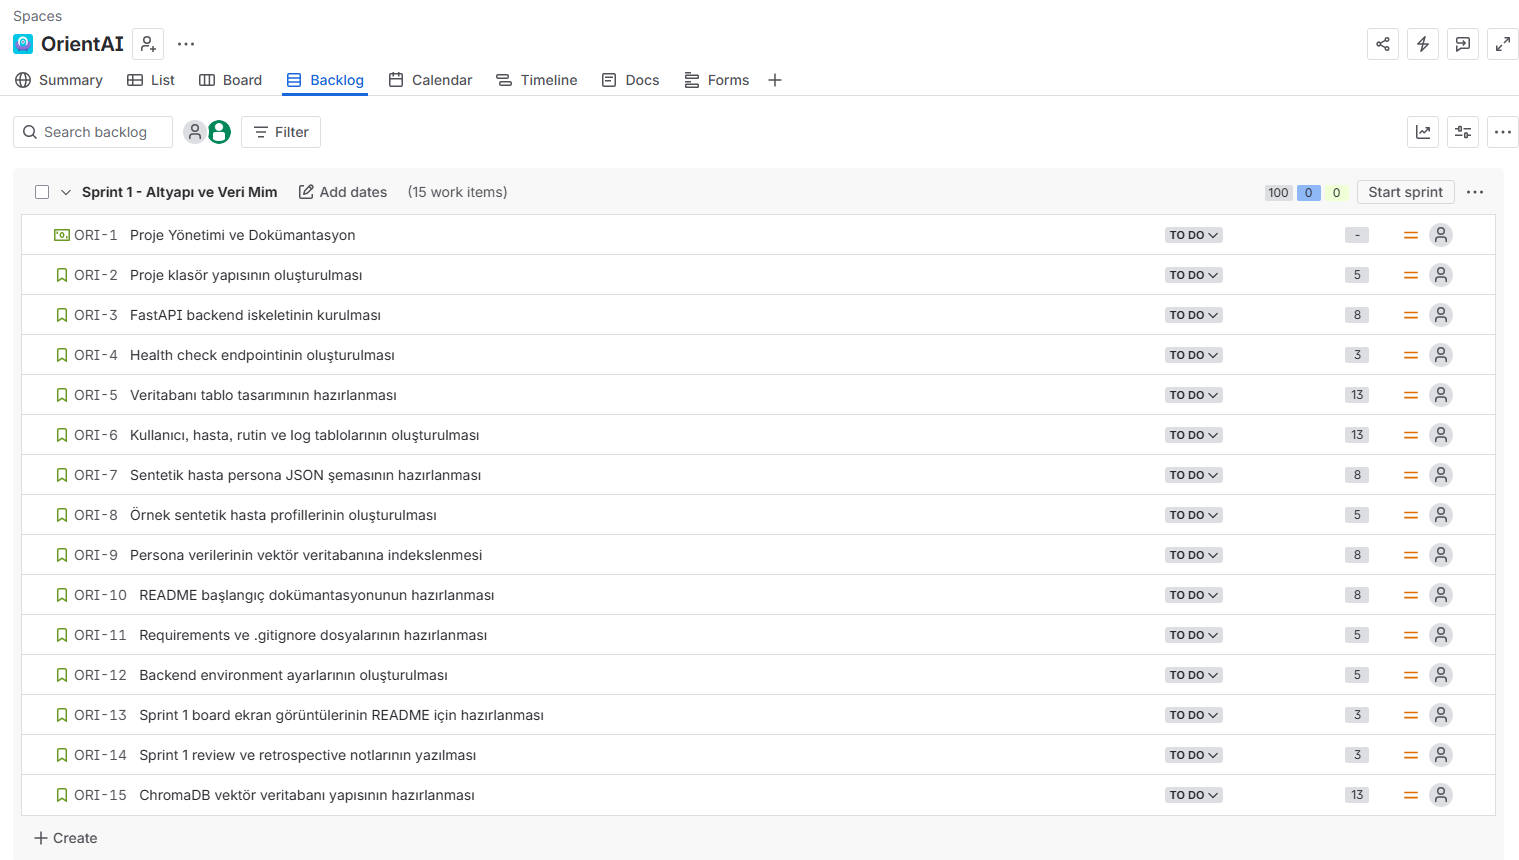
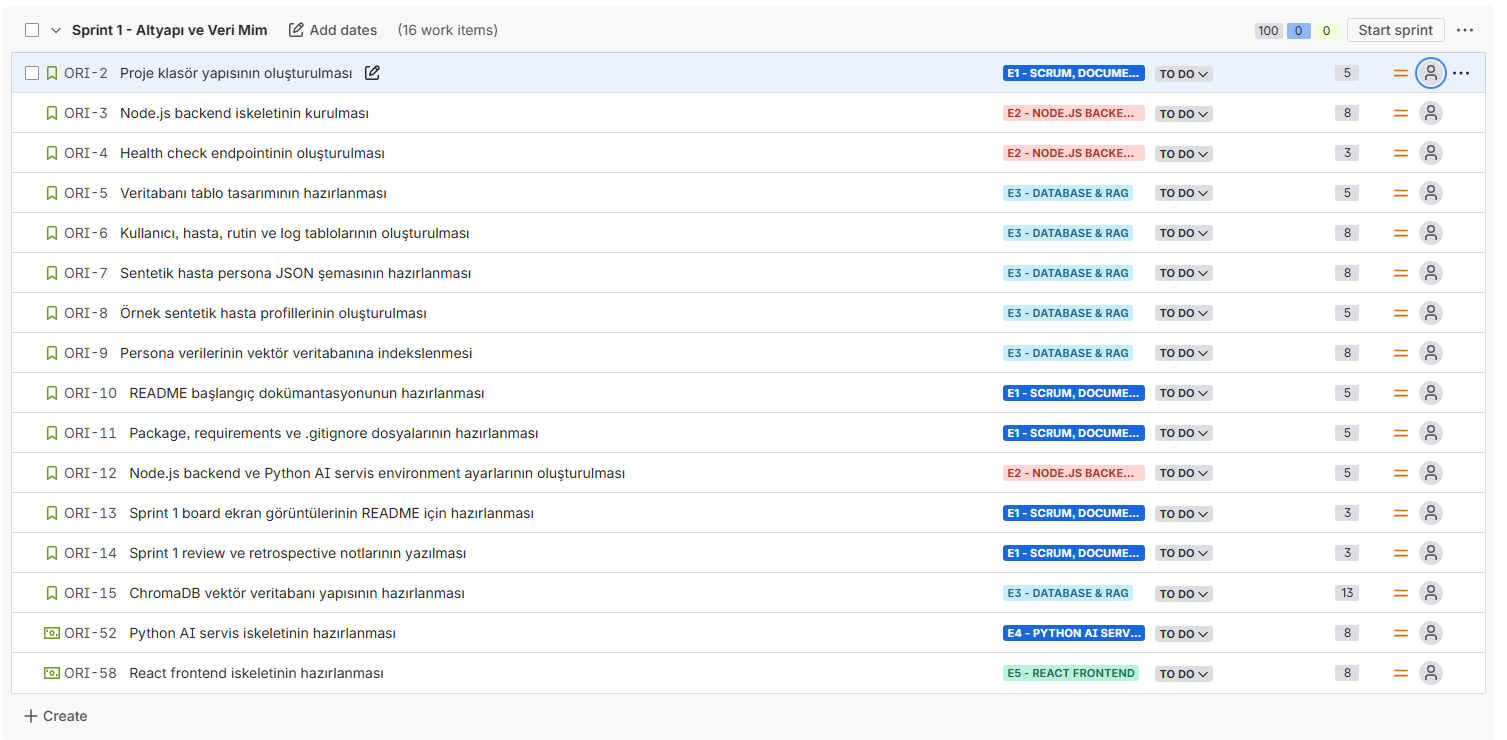
Add files via upload

diff --git a/README.md b/README.md
@@ -12,9 +12,9 @@
 
 <div align="center">
 
-![Python](https://img.shields.io/badge/Python-3.10+-blue?style=for-the-badge&logo=python)
-![FastAPI](https://img.shields.io/badge/FastAPI-Backend-009688?style=for-the-badge&logo=fastapi)
-![Streamlit](https://img.shields.io/badge/Streamlit-Frontend-FF4B4B?style=for-the-badge&logo=streamlit)
+![React](https://img.shields.io/badge/React-Frontend-61DAFB?style=for-the-badge&logo=react&logoColor=black)
+![Node.js](https://img.shields.io/badge/Node.js-Backend-339933?style=for-the-badge&logo=node.js&logoColor=white)
+![Python](https://img.shields.io/badge/Python-AI%20Services-3776AB?style=for-the-badge&logo=python&logoColor=white)
 ![ChromaDB](https://img.shields.io/badge/ChromaDB-RAG-purple?style=for-the-badge)
 ![Whisper](https://img.shields.io/badge/Whisper-STT-black?style=for-the-badge)
 ![Jira](https://img.shields.io/badge/Jira-Scrum-0052CC?style=for-the-badge&logo=jira)
@@ -98,30 +98,29 @@ The assistant can:
 ## 🧱 System Architecture
 
 ```text
-Patient Voice / Text / Image Input
-              |
-              v
-        FastAPI Backend
-              |
-   --------------------------------
-   |              |               |
- STT Service   Vision Service   RAG Service
- Whisper       LLaVA / API      ChromaDB
-   |              |               |
-   --------------------------------
-              |
-              v
-          LLM Response
-              |
-        ---------------
-        |             |
-      TTS       Interaction Logs
-        |             |
-        v             v
- Patient Output  Caregiver Dashboard
+React Frontend
+     |
+     v
+Node.js Backend API
+     |
+     v
+Python AI Services
+     |
+     |------------------|------------------|------------------|
+     v                  v                  v                  v
+ Whisper STT        TTS Service       Vision Service       RAG Service
+ Audio -> Text      Text -> Audio     Image Analysis       ChromaDB
+     |                  |                  |                  |
+     |------------------|------------------|------------------|
+                            |
+                            v
+                   Personalized AI Response
+                            |
+          --------------------------------------
+          |                                    |
+          v                                    v
+   Patient Interaction UI             Caregiver Dashboard
 ```
-
-> A detailed architecture diagram will be added as the project evolves.
 
 ---
 
@@ -129,8 +128,9 @@ Patient Voice / Text / Image Input
 
 | Layer | Technologies |
 |---|---|
-| Backend | Python, FastAPI |
-| Frontend | Streamlit |
+| Frontend | React, Vite |
+| Backend API | Node.js, Express.js |
+| AI Services | Python |
 | Speech-to-Text | Whisper |
 | Text-to-Speech | TTS Services |
 | Multimodal AI | LLaVA / Vision API |
@@ -145,16 +145,7 @@ Patient Voice / Text / Image Input
 
 Due to privacy and ethical concerns, OrientAI does not use real patient data during development.
 
-Instead, the system uses fully synthetic personas that include:
-
-- Patient metadata
-- Daily routines
-- Medication reminders
-- Core memories
-- Family-related information
-- Simulated conversation patterns
-
-Example persona structure:
+Instead, the system uses fully synthetic personas that include patient metadata, daily routines, medication reminders, core memories, family-related information, and simulated conversation patterns.
 
 ```json
 {
@@ -194,12 +185,14 @@ Example persona structure:
 | Team Member | Role | Coding Responsibilities |
 |---|---|---|
 | Senanur ŞENOL | Scrum Master & Data/Prompt Developer | Jira board management, sprint tracking, synthetic patient personas, prompt templates, test scenarios, hallucination test cases, demo data and documentation |
-| Eralp DUMAN | AI & Model Integration Developer | Whisper STT, TTS, Vision API/LLaVA integration, model service layer, AI pipeline design and model inference testing |
-| Emrullah BOZKURT | Backend Developer | FastAPI architecture, API routes, request/response schemas, service orchestration, backend configuration and API reliability |
+| Eralp DUMAN | AI & Model Integration Developer | Python AI services, Whisper STT, TTS, Vision API/LLaVA integration, model service layer, AI pipeline design and model inference testing |
+| Emrullah BOZKURT | Backend Developer | Node.js backend architecture, API routes, request/response schemas, service orchestration, backend configuration and API reliability |
 | Gamze AKEMOĞLU | Database & RAG Developer | SQL schema, ChromaDB vector store, persona indexing, RAG retriever, interaction log management and data consistency |
-| Elif Sıla DEMİRELİ | Frontend & UI Developer | Streamlit patient interaction screen, caregiver dashboard, reminder UI, sentiment charts, log tables and user experience design |
+| Elif Sıla DEMİRELİ | Frontend & UI Developer | React patient interaction screen, caregiver dashboard, reminder UI, sentiment charts, log tables and user experience design |
 
 Although each member has a primary role, all team members contribute code through their assigned modules. The project is divided into modular components to ensure balanced technical contribution across the team.
+
+---
 
 ## 📋 Product Backlog
 
@@ -223,26 +216,28 @@ The project is planned as a **6-week Agile/Scrum development process** consistin
 
 ## Sprint Goal
 
-The goal of Sprint 1 is to establish the core project structure, FastAPI backend skeleton, database schema, synthetic patient persona structure, and initial ChromaDB-based RAG infrastructure.
+The goal of Sprint 1 is to establish the core project structure, Node.js backend skeleton, Python AI service skeleton, database schema, React frontend skeleton, synthetic patient persona structure, and initial ChromaDB-based RAG infrastructure.
 
 ## Sprint Backlog
 
 | Task | Status |
 |---|---|
 | Project folder structure setup | To Do |
-| FastAPI backend skeleton setup | To Do |
+| Node.js backend skeleton setup | To Do |
 | Health check endpoint implementation | To Do |
 | Database schema design | To Do |
 | User, patient, routine and log tables | To Do |
 | Synthetic patient persona JSON schema | To Do |
 | Sample synthetic patient profiles | To Do |
-| ChromaDB vector database setup | To Do |
 | Persona indexing into vector database | To Do |
 | Initial README documentation | To Do |
-| Requirements and .gitignore setup | To Do |
-| Backend environment configuration | To Do |
+| Package, requirements and .gitignore setup | To Do |
+| Node.js backend and Python AI services environment configuration | To Do |
 | Sprint 1 board screenshots | To Do |
 | Sprint 1 review and retrospective notes | To Do |
+| ChromaDB vector database setup | To Do |
+| Python AI service skeleton setup | To Do |
+| React frontend skeleton setup | To Do |
 
 ## Sprint Board
 
@@ -262,7 +257,7 @@ To be completed at the end of Sprint 1.
 
 ## Sprint Goal
 
-The goal of Sprint 2 is to develop the voice interaction layer, RAG-supported memory retrieval, LLM prompting structure, speech-to-text, text-to-speech, and sentiment analysis modules.
+The goal of Sprint 2 is to develop the voice interaction layer, RAG-supported memory retrieval, LLM prompting structure, speech-to-text, text-to-speech, sentiment analysis modules, Node.js chat endpoints, and initial React patient chat interface.
 
 ## Sprint Backlog
 
@@ -280,6 +275,7 @@ The goal of Sprint 2 is to develop the voice interaction layer, RAG-supported me
 | Flagging anxious or negative conversations | To Do |
 | Sprint 2 demo screenshots | To Do |
 | Sprint 2 review and retrospective notes | To Do |
+| React patient chat screen and API connection draft | To Do |
 
 ## Sprint Board
 
@@ -299,7 +295,7 @@ To be completed at the end of Sprint 2.
 
 ## Sprint Goal
 
-The goal of Sprint 3 is to complete visual understanding, image-based memory therapy, caregiver dashboard, dual-agent simulation, hallucination testing, and final demo preparation.
+The goal of Sprint 3 is to complete visual understanding, image-based memory therapy, React caregiver dashboard, dual-agent simulation, hallucination testing, and final demo preparation.
 
 ## Sprint Backlog
 
@@ -309,17 +305,17 @@ The goal of Sprint 3 is to complete visual understanding, image-based memory the
 | Photo description module | To Do |
 | Image-based memory therapy flow | To Do |
 | Connecting visual analysis with RAG memory | To Do |
-| Streamlit caregiver dashboard | To Do |
-| Patient interaction screen simulation | To Do |
+| React caregiver dashboard | To Do |
+| React patient interaction screen | To Do |
 | Reminder management screen | To Do |
 | Sentiment charts on dashboard | To Do |
 | Conversation and routine logs on dashboard | To Do |
 | Dual-agent patient simulator | To Do |
-| Assistant agent evaluation flow | To Do |
 | Hallucination and safety testing | To Do |
 | Final demo scenario | To Do |
 | Sprint 3 product screenshots | To Do |
 | Sprint 3 review and retrospective notes | To Do |
+| Assistant agent evaluation flow | To Do |
 
 ## Sprint Board
 
